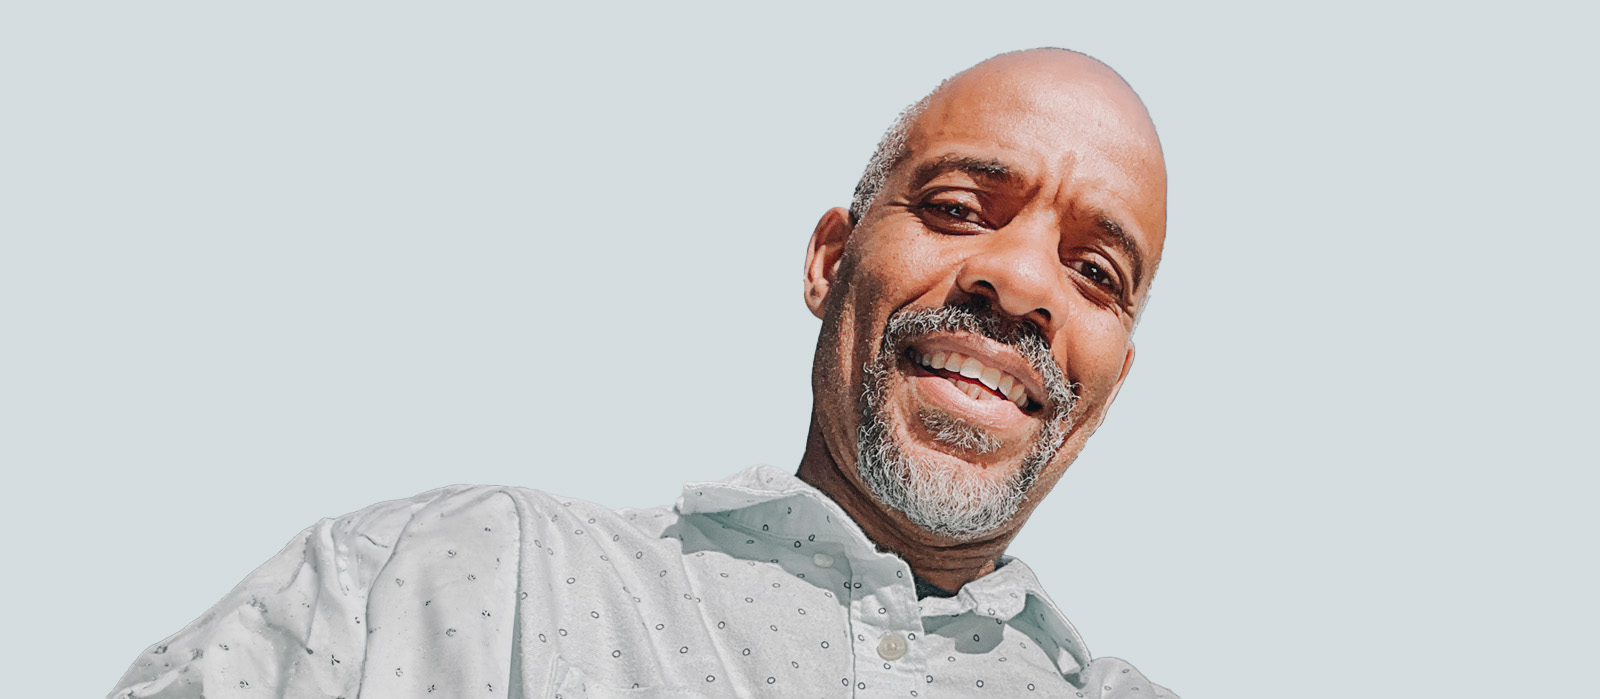
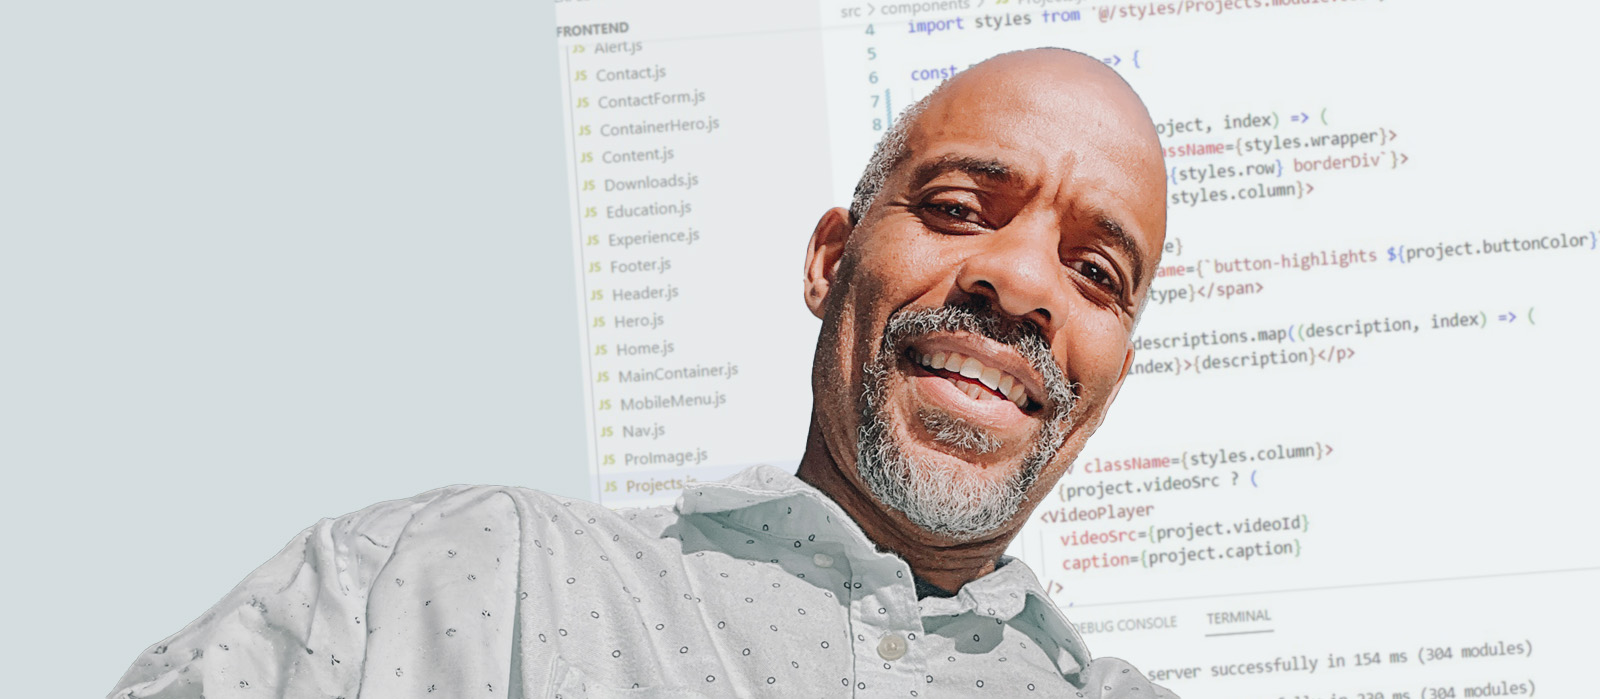
got projects page working with data fetching and displaying data on the page, uploaded some new images to act as backup image if you tube video not found

diff --git a/src/data/projectsData.js b/src/data/projectsData.js
@@ -1,18 +1,18 @@
 const projectsData = [
     {
-      title: "Portfolio Site",
+      title: "My Portfolio Site",
       type: "Individual Project",
       buttonColor: "button-gold",
-      date: "", // you will fill this out
+      date: "Current",
       descriptions: [
-        "This portfolio website is a testament to my skills and experience in front-end and back-end development. By using the latest tools and technologies, I was able to create a website that is fast, responsive, and optimized for performance.",
-        "With my expertise in React, Next JS, Java, Javelin, and JDBC, I am confident in my ability to develop high-quality software solutions that meet the needs of my clients.",
+        "I built my portfolio website to showcase my skills as a Frontend Web Developer, this is just an informational app for now, so no need for databases or backend servers. Please note, I did import all the data into each page dynamically, fetching data from data files.",
       ],
-      technologies: "Java, JavaScript, CSS Flexbox, HTML, JSX, NextJS, PostGreSQL, Javalin, JBDC",
+      technologies: "NextJS, ReactJS, JavaScript, JSX, Vanilla CSS Flexbox for styling, GIT, Github, Vercel.",
       link: "",
       videoId: null,
       caption: null,
       responsibilities: [],
+      backupImage: "/images/project-3.jpg",
     },
     {
       title: "Stacks on Stacks Capstone",
@@ -20,20 +20,17 @@ const projectsData = [
       buttonColor: "button-green",
       date: "", // you will fill this out
       descriptions: [
-        "Testing an e-Commerce application. Our task for the Project  is to implement BDD with Selenium, Cucumber and TestNG/Junit to write End to End tests for the front end of the website.Test the backend endpoints using Postman, write a Startup and General.md file, and document testing (RTM, Test Case Design Document, Test Plan, Defect Report).",
-        "We were to use Agile/Scrum methodologies as you work with your team to complete the tasks. Including but not limited to: Sprint Planning, Product Backlog, Sprint Backlog, Daily Standups, Sprint Review and Sprint Retrospective. You will use Trello for management of your sprints.",
+        "We tested an e-Commerce app, using BDD with Selenium, Cucumber, and TestNG/Junit for front-end End to End tests. Backend endpoints were tested with Postman. Agile/Scrum methodologies were followed with Trello for sprint management",
       ],
       technologies: "Gherkin, Cucumber, Selenium, Java, Agile-Scrum, Postman, JUnit",
       link: "",
       videoId: "M_3j9PRDN7c",
       caption: "Stacks on Stacks Capstone Presentation (2:36)",
       responsibilities: [
-        "Developed comprehensive test suites for a website, utilizing a range of tools and technologies to ensure efficient and effective testing.",
-        "Wrote Cucumber/Gherkin feature files and Java code for Selenium End-2-End tests, covering key functionalities such as displaying products, searching for products, and creating, updating, and deleting products.",
-        "Developed a runner class using JUnit to manage and execute End-2-End tests.",
-        "Automated black-box testing for the website's Products Controller API endpoints, including Product Search -GET, Display - GET, Create- POST, Update, and Delete Products, utilizing Postman.",
-        "Ensured that the website's functionalities were thoroughly tested and that any issues were identified and addressed before deployment.",
+        "Wrote Cucumber/Gherkin feature files and Java code for Selenium End-2-End tests.",
+        "Automated black-box testing for website's Products Controller API endpoints.",
       ],
+      backupImage: "/images/project-2.jpg",
     },
     {
         title: "MicroBlaug - Microblogging Site",
@@ -41,19 +38,19 @@ const projectsData = [
         buttonColor: "button-green",
         date: "", // you will fill this out
         descriptions: [
-          "The Project is designed to help solve the issue of cluttered blogging sites. After signing up, users can login, write posts, view/comment other user posts and see time stamps for activities. The front end is a single page application comprised of HTML, CSS and JavaScript. The backend consists of API endpoints that handle user requests using Java, Javalin and JDBC.",
-          "The database uses Postgres as a vendor and is hosted on Google Cloud Platform. User First Name, Last Name, ID and Comments are stored on a persistent database. The database is constantly updated by user input. A feed displays on the webpage with data pulled from the database.",
+          "The project tackles cluttered blogging sites. Users can sign up, log in, write posts, view/comment on others' posts, and see timestamps. The app is designed as a single-page application to enhance user experience. The backend handles user requests and updates the database for a seamless and interactive blogging experience.",
         ],
-        technologies: "Javalin, Java, JavaScript, Selenium, Cucumber, Gherkin, HTML, CSS, JUnit, DevOps, SQL, Agile-Scrum",
+        technologies: "Javalin, Java, JavaScript, Selenium, Cucumber, Gherkin, JUnit, SQL, Agile-Scrum",
         link: "",
         videoId: "eRPjnGCfNXc",
         caption: "Microblogging Site Presentation (3:37)",
         responsibilities: [
-          "Developed and wrote the code for Gherkin/Cucumber feature files and step implementation files to facilitate End-to-End Testing.",
-          "Adhered to Test-Driven Development (TDD) and Behavior-Driven Development (BDD) methodologies to create a Requirements Traceability Matrix (RTM), Test Case Design Document, and Defect Reports.",
-          "Utilized HTML, CSS, and JavaScript to design and develop the front-end for the home page post/comments feature",
-          "Implemented Java, JBDC, DBeaver, and PostgresSQL to establish the backend web API and database connectivity.",
+          "Wrote Cucumber/Gherkin feature files and Java code for Selenium End-2-End tests.",
+          "Designed user-friendly home page for posting and commenting.",
+          "Developed backend web API with database connectivity.",
+          "Documented in reports (RTM, Test Case Design Document, and Defect Reports).",
         ],
+        backupImage: "/images/project-1.jpg",
       },
       {
         title: "BugCatcher",
@@ -61,20 +58,19 @@ const projectsData = [
         buttonColor: "button-gold",
         date: "", // you will fill this out
         descriptions: [
-          "Exciting news! A team of talented developers has recently completed a prototype of a new Test Case and Bug Reporting management system for internal use. While the application's many features are incomplete, the team has made significant progress, creating a functional application that lacks styling. The team also expects the application to have visual and logical bugs.",
-          "To address this, I have been tasked with testing the application and writing automation tests to facilitate rapid regression testing in future sprints. While I won't have access to the source code, I have been provided with a version of the application running in a dev environment, including access to the underlying API",
+          "Exciting news! Talented developers completed a prototype of a Test Case and Bug Reporting system. I will test the application and write automation tests to facilitate regression testing. Given a dev environment with API access, I'll address visual, logical bugs.",
         ],
         technologies: "Java, Selenium, Agile-Scrum",
         link: "",
         videoId: null,
         caption: null,
         responsibilities: [
-          "Created a Requirements Traceability Matrix to match business requirements with features to be tested.",
-          "Created a Test Case Document showing all features, scenarios, steps tested and the results.",
-          "Created a Defect report for all tests - tracking bugs and documenting them according to their priority.",
-          "Wrote and implemented Automated End-2-End tests with Java, Selenium and Cucumber with the Gherkin feature files provided.",
-          "Presented the final results in front of a panel, showed my automated testing in action and fielded all questions they had regarding my testing.",
+          "Developed a comprehensive Test Case Document outlining tested scenarios, steps, and results.",
+          "Generated a Defect Report for tracking and prioritizing identified bugs.",
+          "Implemented Automated End-2-End tests using Java, Selenium, and Cucumber with Gherkin feature files.",
+          "Presented the final results, demonstrating automated testing and addressing questions from a panel.",
         ],
+        backupImage: "/images/project-4.jpg",
       },
     ];
     

diff --git a/src/components/Projects.js b/src/components/Projects.js
@@ -1,36 +1,59 @@
-//components/projects.js
+//components/Projects.js
 import projectsData from '@/data/projectsData.js';
 import VideoPlayer from '@/components/VideoPlayer';
 import styles from '@/styles/Projects.module.css';
 
 const Projects = () => {
-    return (
-      <section className="dynamicContent">
-       
-          {projectsData.map((project, index) => (
-            <div key={index}>
-              <h2>
+  return (
+    <>
+      {projectsData.map((project, index) => (
+        <div key={index} className={styles.wrapper}>
+          <div className={`${styles.row} borderDiv`}>
+            <div className={styles.column}>
+              <h1>
                 {project.title}
-                <span className={`button-highlights ${project.buttonColor}`}>{project.type}</span>
-              </h2>
+                <span className={`button-highlights ${project.buttonColor}`}>
+                  {project.type}
+                </span>
+              </h1>
               {project.descriptions.map((description, index) => (
                 <p key={index}>{description}</p>
               ))}
-              <h3>Technologies Used:</h3>
-              <p className={styles.technologiesUsed}><code>{project.technologies}</code></p>
-              <a className="button-blue" href={project.link}>VIEW FULL CODE BASE</a>
-              {project.videoSrc && (
-                
-                  <VideoPlayer
-                    videoSrc={project.videoId}
-                    caption={project.caption}
-                  />
-                
+              {project.responsibilities.length > 0 && (
+                <>
+                  <h3>Responsibilities:</h3>
+                  {project.responsibilities.map((responsibility, index) => (
+                    <ul key={index}>
+                      <li>{responsibility}</li>
+                    </ul>
+                  ))}
+                </>
               )}
             </div>
-          ))}
-      </section>
-    );
+
+            <div className={styles.column}>
+              {project.videoSrc ? (
+                <VideoPlayer videoSrc={project.videoId} caption={project.caption} />
+              ) : (
+                <img
+                  src={project.backupImage}
+                  alt="Backup Image"
+                  className={styles.backupImage}
+                  style={{ height: 'auto', width: '600px' }}
+                />
+              )}
+
+              <h3>Technologies Used:</h3>
+              <h4>{project.technologies}</h4>
+              <div className={styles.buttonContainer}>
+                <a className="button-blue" href={project.link}>VIEW CODE BASE ON GITHUB</a>
+              </div>
+            </div>
+          </div>
+        </div>
+      ))}
+    </>
+  );
 };
 
 export default Projects;

diff --git a/src/styles/Projects.module.css b/src/styles/Projects.module.css
@@ -1,3 +1,89 @@
+.wrapper {
+  display: flex;
+  padding: 25px;
+  width: 100%;
+  justify-content: center;
+  /* align-items: center; */
+  flex-wrap: wrap;
+  /* background-color: rgb(225, 39, 39); */
+  margin: 30px 0;
+}
+
+.column {
+  display: flex; 
+  flex-direction: column; 
+  padding: 50px;
+  width: 100%;
+  overflow: hidden; 
+  background-color: var(--BgColorSecondary);
+  background-color: var(--BgColorMain);
+  /* background-color: aquamarine; */
+}
+
+.column h1 {
+  font-size: 34px;
+}
+
+.column h2 {
+  font-size: 28px;
+}
+
+.column h3 {
+  margin-top: 25px;
+  margin-bottom: 25px;
+  font-size: 24px;
+  /* border-bottom: 1px solid var(--borderColor); */
+}
+
+.column p, .column ul {
+  font-size: 22px;
+  line-height: 1.33;
+  padding-left: 20px;
+  
+}
+
+.row {
+  display: flex;
+  width: 1690px;
+  flex-direction: row;
+  /* background-color: blueviolet; */
+  background-color: var(--BgColorMain);
+  box-shadow: 1px 1px 3px rgba(0, 0, 0, 0.2);
+}
+
+.buttonContainer {
+  margin-top: 25px;
+}
+
+@media (min-width: 768px) {
+  .wrapper {
+    width: 100%;
+  }
+  /* .row {
+    flex-basis: 45.5%;
+  } */
+}
+
+@media (max-width: 1000px) {
+  .wrapper {
+    width: 100%;
+  }
+  .row {
+    flex-basis: 100%;
+    width: 100%;
+    flex-wrap: wrap;
+  }
+}
+
+.backupImage {
+  border-radius: var(--contentBorderRadius);
+  box-shadow: 1px 1px 3px rgba(0, 0, 0, 0.2);
+  border: 2px solid #e0e0e0;
+  width: 100%;
+  height: 100%;
+}
+
+
 .videoPlayerContainer {
     max-width: 600px;
     /* margin: 0 auto; */
@@ -14,9 +100,7 @@
     margin-top: 10px;
   }
 
+
   .technologiesUsed {
-    margin-bottom: 40px;
+    font-size: 20px;
   }
-
-
-  

diff --git a/src/styles/globals.css b/src/styles/globals.css
@@ -204,19 +204,31 @@
   }
   
   .item1, .item2, .item3, .item4 {
-    margin: 10px;
-    display: flex;
     justify-content: center;
     align-items: center;
   }
   
   .item1 {
     flex: 1 0 100%; /* full width */
+    margin: 0;
+    display: flex;
   }
   
   .item2 {
-    flex: 1 0 50%; /* 50% width */
+    flex-basis: 50%;
+    display: flex;
+    flex-direction: column;
+    background-color: blueviolet;
   }
+  
+  @media (max-width: 767px) {
+    .item2 {
+      flex-basis: 100%;
+    }
+  }
+  
+  
+  
   
   .item3 {
     flex: 1 0 33.33%; /* 33.33% width */

diff --git a/src/pages/projects.js b/src/pages/projects.js
@@ -3,6 +3,7 @@ import MobileMenu from '@/components/MobileMenu'
 import Content from '@/components/Content'
 import Hero from '@/components/Hero'
 import Footer from '@/components/Footer'
+import Projects from '@/components/Projects'
 
 export default function ProjectsPage() {
   return (
@@ -19,6 +20,7 @@ export default function ProjectsPage() {
       <MobileMenu />
       <Content>
         <Hero pageName="Projects" />
+        <Projects />
       </Content>
       <Footer />
     </>
